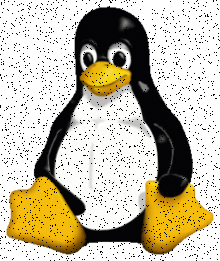
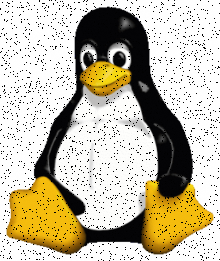
zaszumianie

diff --git a/semestr_8/analiza_obrazu/04/image_anal.py b/semestr_8/analiza_obrazu/04/image_anal.py
@@ -192,17 +192,19 @@ class ImageAnal:
     def szum(self, prop, method):
         if method == 'solpieprz':
             self.__szum_solpieprz(prop)
-        elif method == 'rownomierny':
-            self.__szum_rownomierny(prop)
+        elif method == 'rownomierny1':
+            self.__szum_rownomierny1(prop)
+        elif method == 'rownomierny2':
+            self.__szum_rownomierny1(prop)
 
     @image_loaded
     def odszumianie(self, method):
         if method == 'srednia':
             self.__odszumianie_srednie(self)
-        elif method = 'mediana':
+        elif method == 'mediana':
             self.__odszumianie_medianowe(self)
-        elif method = 'mediana2':
-            self.__odszymianie_medianowe2(self):
+        elif method == 'mediana2':
+            self.__odszymianie_medianowe2(self)
         else:
             raise NoSuchMethodError()
 
@@ -323,19 +325,50 @@ class ImageAnal:
         return data
 
     def __szum_solpieprz(self, prop):
-        prop *= 100
-        print "a"
         data = self.__image
-        print "b"
+        prop *= 100
         s = data.shape[0] * data.shape[1]
         s2 = (data.shape[0], data.shape[1])
         r = np.random.randint(100, size=s).reshape(s2)
-        print "c"
         r = r < prop
-        print r
-        print "d"
         r2 = np.random.randint(2, size=s).reshape(s2)
-        print "e"
         data = data * (1-r).repeat(4).reshape(data.shape) + r2.repeat(4).reshape(data.shape)
-        print "f"
         self.__image = data
+    
+    def __szum_rownomierny1(self, prop):
+        data = self.__image
+        prop *= 100
+        s = data.shape[0] * data.shape[1]
+        s2 = (data.shape[0], data.shape[1])
+        r = np.random.randint(100, size = s2).reshape(s2)
+        r = r < prop
+        tmp = np.array(data, dtype=np.int64)
+        r2 = np.random.randint(20, size = s2).reshape(s2)-10
+        r2 = r2 + (r2 > 0) * 20 - (r2 < 0) * 20
+        r2 = r2 * r
+        r2 = r2.repeat(4).reshape(data.shape)    
+        tmp += r2
+        tmp = tmp * (tmp > 0)
+        tmp -= 255
+        tmp = tmp * (tmp < 0)
+        tmp += 255
+        self.__image = tmp
+
+    def __szum_rownomierny2(self, prop):
+        data = slef.__image
+        prop *= 100
+        s = reduce(lambda x, y: x * y, data.shape)
+        r = np.random.randint(100, size = s).reshape(s2)
+        r = r < prop
+        tmp = np.array(data, dtype=np.int64)
+        r2 = np.random.randint(20, size = s)-10
+        r2 = r2 * r
+        r2 = r2 + (r2 > 0) * 20 - (r2 < 0) * 20
+        r2 = r2.reshape(data.shape)    
+        tmp += r2
+        tmp = tmp * (tmp > 0)
+        tmp -= 255
+        tmp = tmp * (tmp < 0)
+        tmp += 255
+        self.__image = tmp
+

diff --git a/semestr_8/analiza_obrazu/04/lab04.py b/semestr_8/analiza_obrazu/04/lab04.py
@@ -2,14 +2,47 @@
 #*-* coding: utf8 *-*
 from image_anal import ImageAnal
 img = ImageAnal()
+print "Sol 0.05"
 img.open('tux.png')
 img.szum(prop=0.05, method='solpieprz')
 img.save('tux_solpieprz05.png')
 
+print "Sol 0.10"
 img.open('tux.png')
 img.szum(prop=0.10, method='solpieprz')
 img.save('tux_solpieprz10.png')
 
+print "Sol 0.15"
 img.open('tux.png')
 img.szum(prop=0.15, method='solpieprz')
 img.save('tux_solpieprz15.png')
+
+print "Rownomierny1 0.05"
+img.open('tux.png')
+img.szum(prop=0.05, method='rownomierny1')
+img.save('tux_rowno1_05.png')
+
+print "Rownomierny1 0.10"
+img.open('tux.png')
+img.szum(prop=0.10, method='rownomierny1')
+img.save('tux_rowno1_10.png')
+
+print "Rownomierny1 0.15"
+img.open('tux.png')
+img.szum(prop=0.15, method='rownomierny1')
+img.save('tux_rowno1_15.png')
+
+print "Rownomierny2 0.05"
+img.open('tux.png')
+img.szum(prop=0.05, method='rownomierny2')
+img.save('tux_rowno2_05.png')
+
+print "Rownomierny2 0.10"
+img.open('tux.png')
+img.szum(prop=0.10, method='rownomierny2')
+img.save('tux_rowno2_10.png')
+
+print "Rownomierny2 0.15"
+img.open('tux.png')
+img.szum(prop=0.15, method='rownomierny2')
+img.save('tux_rowno2_15.png')
